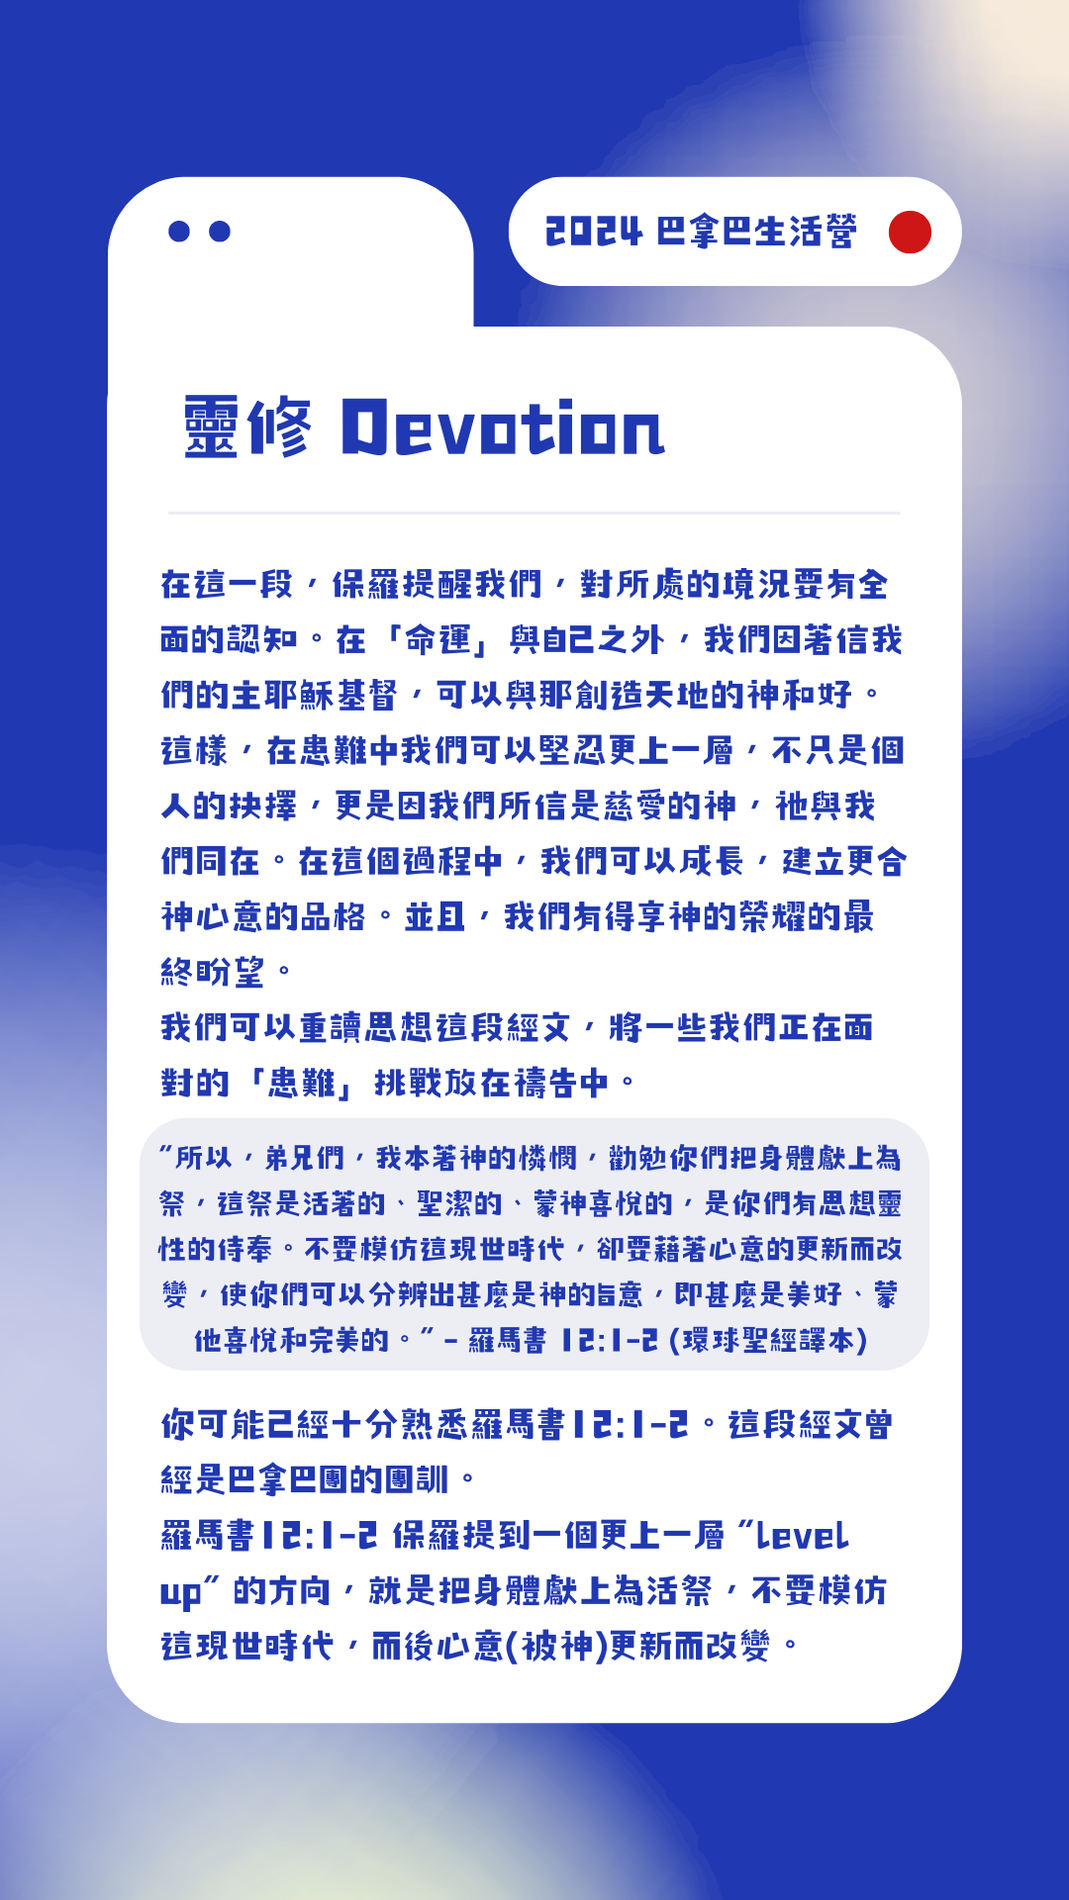
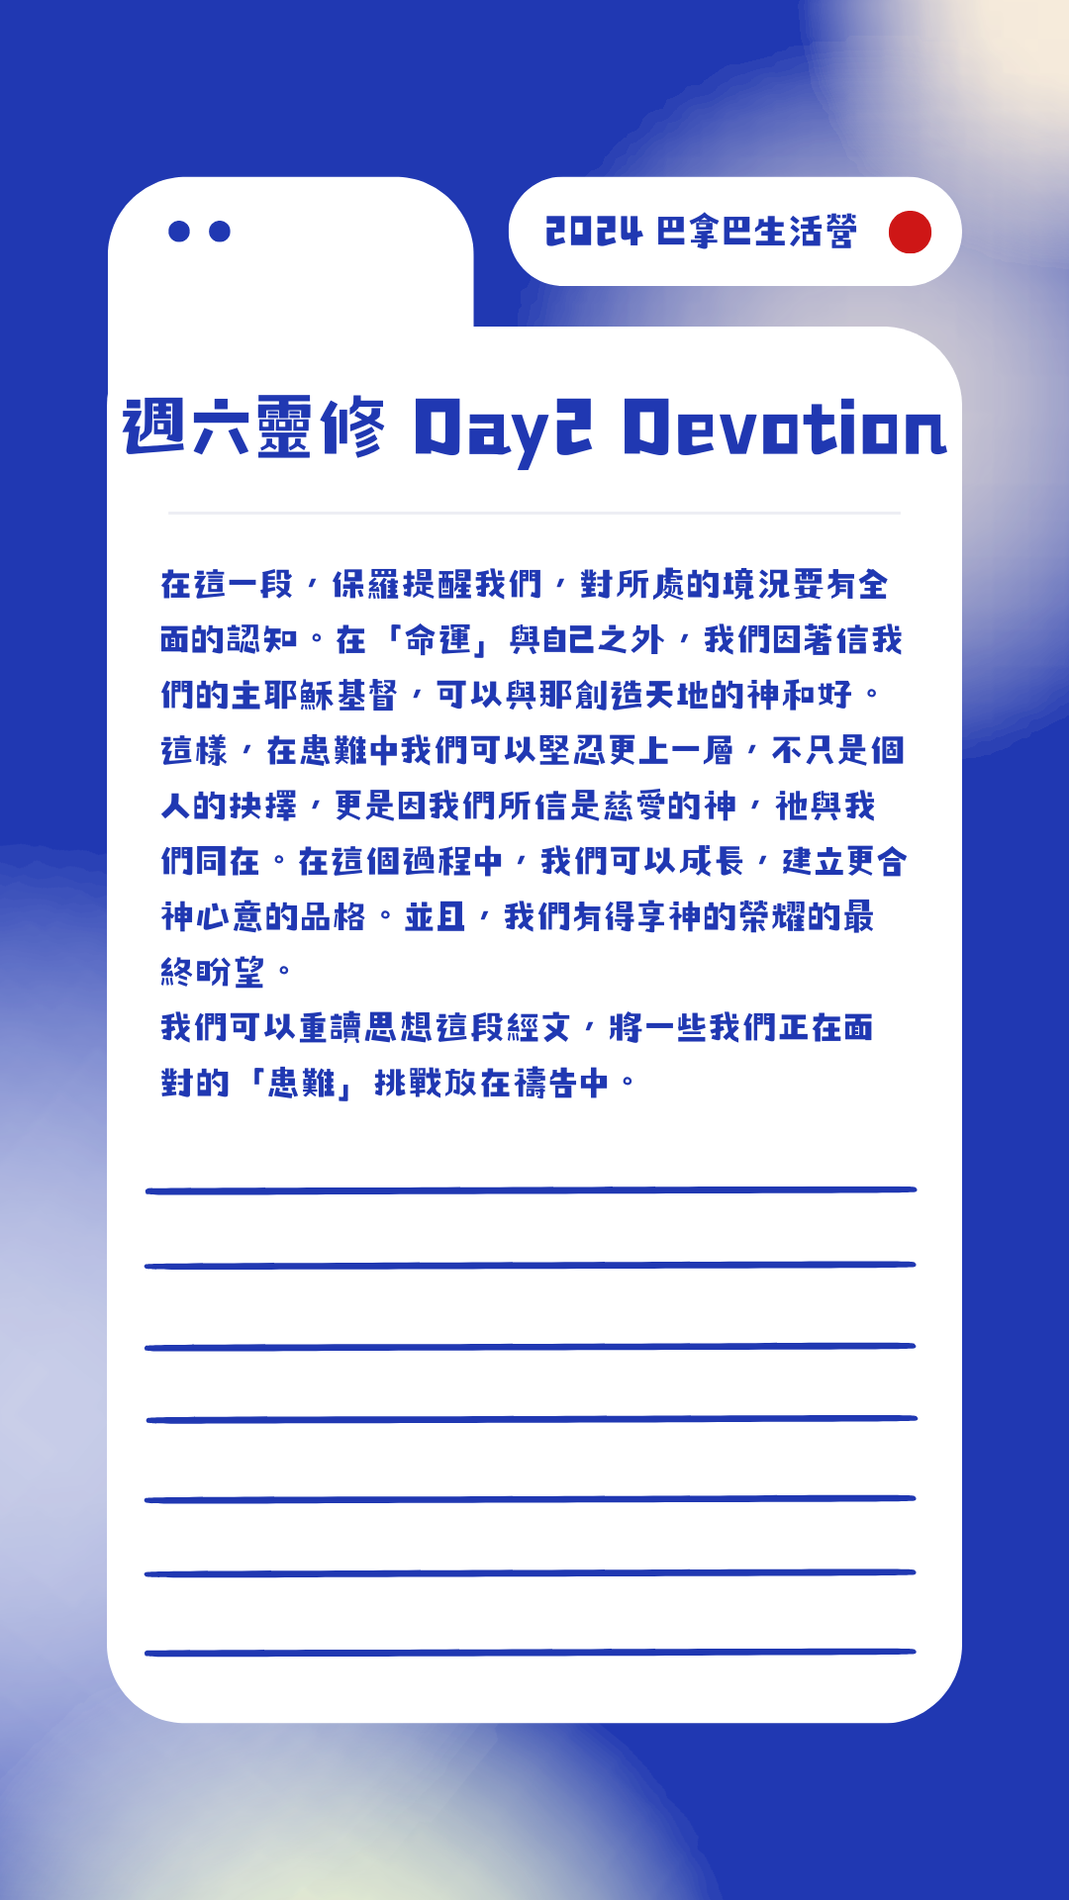
update

Changed region(s): [[0.1528, 0.5938, 0.8556, 0.875], [0.1222, 0.1875, 0.8861, 0.25]]

diff --git a/src/pages/Notes/index.tsx b/src/pages/Notes/index.tsx
@@ -19,19 +19,22 @@ import {
 } from "../../components/ui/tabs";
 
 export default function Notes() {
-  const [devotionNotes, setDevotionNotes] = useState("");
+  const [devotion1Notes, setDevotion1Notes] = useState("");
+  const [devotion2Notes, setDevotion2Notes] = useState("");
   const [day1Notes, setDay1Notes] = useState("");
   const [day2Notes, setDay2Notes] = useState("");
   const [day3Notes, setDay3Notes] = useState("");
 
   useEffect(() => {
     // load the notes from local storage
-    const savedDevotionNotes = localStorage.getItem("devotionNotes");
+    const savedDevotion1Notes = localStorage.getItem("devotion1Notes");
+    const savedDevotion2Notes = localStorage.getItem("devotion2Notes");
     const savedDay1Notes = localStorage.getItem("day1Notes");
     const savedDay2Notes = localStorage.getItem("day2Notes");
     const savedDay3Notes = localStorage.getItem("day3Notes");
 
-    if (savedDevotionNotes) setDevotionNotes(savedDevotionNotes);
+    if (savedDevotion1Notes) setDevotion1Notes(savedDevotion1Notes);
+    if (savedDevotion2Notes) setDevotion2Notes(savedDevotion2Notes);
     if (savedDay1Notes) setDay1Notes(savedDay1Notes);
     if (savedDay2Notes) setDay2Notes(savedDay2Notes);
     if (savedDay3Notes) setDay3Notes(savedDay3Notes);
@@ -55,75 +58,19 @@ export default function Notes() {
           You can start taking notes here! 📝 
         </AlertDescription>
       </Alert> */}
-      <Tabs defaultValue="devotion" className="w-full">
-        <TabsList className="grid w-full grid-cols-4">
-          <TabsTrigger value="devotion">Devotion</TabsTrigger>
+      <Tabs defaultValue="devotion1" className="w-full">
+        <TabsList className="grid w-full grid-cols-5">
+          <TabsTrigger value="devotion1">Devotion 1</TabsTrigger>
+          <TabsTrigger value="devotion2">Devotion 2</TabsTrigger>
           <TabsTrigger value="day1">Talk 1</TabsTrigger>
           <TabsTrigger value="day2">Talk 2</TabsTrigger>
           <TabsTrigger value="day3">Talk 3</TabsTrigger>
         </TabsList>
-        <TabsContent value="devotion">
+        <TabsContent value="devotion1">
           <Card className="h-[80vh]">
             <CardHeader>
-              <CardTitle>靈修 Devotion</CardTitle>
+              <CardTitle>週六靈修 Day2 Devotion 📚</CardTitle>
               <CardDescription className="max-h-48 overflow-scroll">
-                在 Adobe 網站的文章 “What is the perfect Instagram video
-                length?” 有這一段文字： “Instagram videos with the most comments
-                typically average around 26 seconds long. If you want to
-                maintain your viewers’ attention and engage with your audience,
-                it’s a good idea to keep your Instagram videos under 30
-                seconds.”
-                靈修讀經不應是要在三十秒內完成，反之，我們要學會慢下來，反覆閱讀、思想經文。將對你
-                有所感動或挑戰的字句、思想，轉化成為你自己的禱告。 羅馬書 5:1-5
-                (環球聖經譯本)
-                所以，我們既然因信稱義，就藉著我們的主耶穌基督，得以與神和睦相處；我們也藉著
-                他，因信得以進入我們現在享有的這恩典，並且因為盼望得享神的榮耀而歡呼自豪。不
-                但如此，我們也在患難中歡呼自豪，因為知道患難產生堅忍，堅忍產生經得起考驗的品
-                格，經得起考驗的品格產生盼望；這盼望不會令我們蒙羞，因為神的愛，藉著他賜給我
-                們的聖靈，已經傾注在我們心裡。 當我們細心閱讀羅馬書
-                5:1-5，我們會發覺到保羅說出了我們生活上的景況。 “盼望得享神的榮
-                耀而歡呼自豪” 的同時
-                “我們也在患難中歡呼自豪”。我們信主得著救恩，但我們也在患難中。
-                患難並沒有因為我們與神和好而離開我們。
-                我們的「患難」可能是家庭關係的磨擦、身體健康的困擾、工作要求的挑戰、經濟上的壓力、
-                尋找工作方向的迷惘、尋找另一半的希望、如何在墨爾本安頓下來、又或是否要離開
-                . . . 等。
-                不過，這些看似攔阻我們得享恩典的日常生活的難處，是操練我們成長的途徑，使我們有「經
-                得起考驗的品格」。 作家 Josh Shipp 這樣說 “You either get bitter
-                or you get better. It's that simple. You either take what has
-                been dealt to you and allow it to make you a better person, or
-                you allow it to tear you down. The choice does not belong to
-                fate, it belongs to you.”
-                作者强調的是個人的抉擇能勝過命運，但這是甚
-                樣的更好(better)？更懂得為自己謀取利益？更加自我為中心？
-                在這一段，保羅提醒我們，對所處的境況要有全面的認知。在「命運」與自己之外，我們因著
-                信我們的主耶穌基督，可以與那創造天地的神和好。這樣，在患難中我們可以堅忍更上一層，
-                不只是個人的抉擇，更是因我們所信是慈愛的神，祂與我們同在。在這個過程中，我們可以成
-                長，建立更合神心意的品格。並且，我們有得享神的榮耀的最終盼望。
-                我們可以重讀思想這段經文，將一些我們正在面對的「患難」挑戰放在禱告中。
-                Draft_10_c1 Page 2 羅馬書 12:1-2 (環球聖經譯本)
-                所以，弟兄們，我本著神的憐憫，勸勉你們把身體獻上為祭，這祭是活著的、聖潔的、
-                蒙神喜悅的，是你們有思想靈性的侍奉。不要模仿這現世時代，卻要藉著心意的更新而
-                改變，使你們可以分辨出甚麼是神的旨意，即甚麼是美好、蒙他喜悅和完美的。
-                你可能已經十分熟悉羅馬書12:1-2。這段經文曾經是巴拿巴團的團訓。
-                羅馬書12:1-2 保羅提到一個更上一層 “level up”
-                的方向，就是把身體獻上為活祭，不要模仿這
-                現世時代，而後心意(被神)更新而改變。 Eugene Peterson 在 The
-                Message 對這段有十分傳神的翻譯 “Take your everyday, ordinary
-                life— your sleeping, eating, going-to-work, and walking-around
-                life—and place it before God as an offering. . . . Don’t become
-                so well-adjusted to your culture that you fit into it without
-                even thinking. Instead, fix your attention on God. You’ll be
-                changed from the inside out. . . . ” (把你每天平凡的生活
-                ──你的睡覺、吃飯、上班、行走的生活──當作祭物放在神面前。 . . .
-                .不要太適應在你所處
-                的文化，以至於不假思索就融入其中。相反，將你的注意力在神身上。你將會有由內而外的蛻
-                變。) 讀完羅馬書
-                12:1-2，對你來說，你會拿什麼作為活祭？你的日常生活作息？你的生活中的難處
-                壓力？你的生活中的成功或者成敗？首先，神所喜悅的是你願意去思想什麼是神所喜悅的，願
-                意讓自己心意更新，願意去獻上。
-                保羅跟著說我們可以分辨出甚麼是神的旨意。在你的身上，在你所處的境況，你可以甚樣分辨
-                出神的旨意？你可以集中一個方面，放在你的禱告中，以這作為你的活祭。
                 In an article from Adobe’s tutorial webpage, the answer to the
                 question “What is the perfect Instagram video length?” is:
                 “Instagram videos with the most comments typically average
@@ -169,44 +116,122 @@ export default function Notes() {
                 person who will seek God’s heart. Furthermore, we have the hope
                 of enjoying God’s glory in the future. Re-read and reflect on
                 this passage. We can put our “sufferings” we are facing into our
-                prayers. Draft_10_e Page 2 Rom 12:1- (NIV) Therefore, I urge
-                you, brothers and sisters, in view of God’s mercy, to offer your
-                bodies as a living sacrifice, holy and pleasing to God—this is
-                your true and proper worship. Do not conform to the pattern of
-                this world, but be transformed by the renewing of your mind.
-                Then you will be able to test and approve what God’s will is—his
-                good, pleasing and perfect will. You may be very familiar with
-                Romans 12:1-2. This was once a Bible verse of Barnabas
-                Fellowship. In Romans 12:1-2, Paul pointed a way to “level up”,
-                which is to offer your body as a living sacrifice, not to
-                conform to the pattern of this age, be transformed (by God) by
-                the renewing of your mind. In The Message, Eugene Peterson has a
-                very insightful translation of this passage, “Take your
-                everyday, ordinary life—your sleeping, eating, going-to-work,
-                and walking-around life—and place it before God as an offering.
-                . . . Don’t become so well-adjusted to your culture that you fit
-                into it without even thinking. Instead, fix your attention on
-                God. You’ll be changed from the inside out. . . .” To you, after
-                reading Romans 12:1-2, what will you offer as a living
-                sacrifice? Your daily routine? Difficulties and stress in your
-                life? Success or failure in your life? First of all, what
-                pleases God is your willingness to think about what pleases God,
-                your willingness to renew your mind, and your willingness to
-                offer. Paul goes on to say that we can discern what God’s will
-                is. How can you discern God's will in your life situation? You
-                may focus on one aspect, put it in your prayers, and make it
-                your living sacrifice.
+                prayers.在 Adobe 網站的文章 “What is the perfect Instagram video
+                length?” 有這一段文字： “Instagram videos with the most comments
+                typically average around 26 seconds long. If you want to
+                maintain your viewers’ attention and engage with your audience,
+                it’s a good idea to keep your Instagram videos under 30
+                seconds.”
+                靈修讀經不應是要在三十秒內完成，反之，我們要學會慢下來，反覆閱讀、思想經文。將對你
+                有所感動或挑戰的字句、思想，轉化成為你自己的禱告。 羅馬書 5:1-5
+                (環球聖經譯本)
+                所以，我們既然因信稱義，就藉著我們的主耶穌基督，得以與神和睦相處；我們也藉著
+                他，因信得以進入我們現在享有的這恩典，並且因為盼望得享神的榮耀而歡呼自豪。不
+                但如此，我們也在患難中歡呼自豪，因為知道患難產生堅忍，堅忍產生經得起考驗的品
+                格，經得起考驗的品格產生盼望；這盼望不會令我們蒙羞，因為神的愛，藉著他賜給我
+                們的聖靈，已經傾注在我們心裡。 當我們細心閱讀羅馬書
+                5:1-5，我們會發覺到保羅說出了我們生活上的景況。 “盼望得享神的榮
+                耀而歡呼自豪” 的同時
+                “我們也在患難中歡呼自豪”。我們信主得著救恩，但我們也在患難中。
+                患難並沒有因為我們與神和好而離開我們。
+                我們的「患難」可能是家庭關係的磨擦、身體健康的困擾、工作要求的挑戰、經濟上的壓力、
+                尋找工作方向的迷惘、尋找另一半的希望、如何在墨爾本安頓下來、又或是否要離開
+                . . . 等。
+                不過，這些看似攔阻我們得享恩典的日常生活的難處，是操練我們成長的途徑，使我們有「經
+                得起考驗的品格」。 作家 Josh Shipp 這樣說 “You either get bitter
+                or you get better. It's that simple. You either take what has
+                been dealt to you and allow it to make you a better person, or
+                you allow it to tear you down. The choice does not belong to
+                fate, it belongs to you.”
+                作者强調的是個人的抉擇能勝過命運，但這是甚
+                樣的更好(better)？更懂得為自己謀取利益？更加自我為中心？
+                在這一段，保羅提醒我們，對所處的境況要有全面的認知。在「命運」與自己之外，我們因著
+                信我們的主耶穌基督，可以與那創造天地的神和好。這樣，在患難中我們可以堅忍更上一層，
+                不只是個人的抉擇，更是因我們所信是慈愛的神，祂與我們同在。在這個過程中，我們可以成
+                長，建立更合神心意的品格。並且，我們有得享神的榮耀的最終盼望。
+                我們可以重讀思想這段經文，將一些我們正在面對的「患難」挑戰放在禱告中。
               </CardDescription>
             </CardHeader>
             <CardContent className="space-y-2">
               <Textarea
                 placeholder="Type your notes here..."
                 className="w-full h-[28vh]"
-                value={devotionNotes}
-                onChange={(e) => setDevotionNotes(e.target.value)}
+                value={devotion1Notes}
+                onChange={(e) => setDevotion1Notes(e.target.value)}
               />
               <Button
-                onClick={() => handleSave("devotionNotes", devotionNotes)}
+                onClick={() => handleSave("devotion1Notes", devotion1Notes)}
+              >
+                Save
+              </Button>
+            </CardContent>
+          </Card>
+        </TabsContent>
+        <TabsContent value="devotion2">
+          <Card className="h-[80vh]">
+            <CardHeader>
+              <CardTitle>週日靈修 Day3 Devotion 📚</CardTitle>
+              <CardDescription className="max-h-48 overflow-scroll">
+                Rom 12:1- (NIV) Therefore, I urge you, brothers and sisters, in
+                view of God’s mercy, to offer your bodies as a living sacrifice,
+                holy and pleasing to God—this is your true and proper worship.
+                Do not conform to the pattern of this world, but be transformed
+                by the renewing of your mind. Then you will be able to test and
+                approve what God’s will is—his good, pleasing and perfect will.
+                You may be very familiar with Romans 12:1-2. This was once a
+                Bible verse of Barnabas Fellowship. In Romans 12:1-2, Paul
+                pointed a way to “level up”, which is to offer your body as a
+                living sacrifice, not to conform to the pattern of this age, be
+                transformed (by God) by the renewing of your mind. In The
+                Message, Eugene Peterson has a very insightful translation of
+                this passage, “Take your everyday, ordinary life—your sleeping,
+                eating, going-to-work, and walking-around life—and place it
+                before God as an offering. . . . Don’t become so well-adjusted
+                to your culture that you fit into it without even thinking.
+                Instead, fix your attention on God. You’ll be changed from the
+                inside out. . . .” To you, after reading Romans 12:1-2, what
+                will you offer as a living sacrifice? Your daily routine?
+                Difficulties and stress in your life? Success or failure in your
+                life? First of all, what pleases God is your willingness to
+                think about what pleases God, your willingness to renew your
+                mind, and your willingness to offer. Paul goes on to say that we
+                can discern what God’s will is. How can you discern God's will
+                in your life situation? You may focus on one aspect, put it in
+                your prayers, and make it your living sacrifice.羅馬書 12:1-2
+                (環球聖經譯本)
+                所以，弟兄們，我本著神的憐憫，勸勉你們把身體獻上為祭，這祭是活著的、聖潔的、
+                蒙神喜悅的，是你們有思想靈性的侍奉。不要模仿這現世時代，卻要藉著心意的更新而
+                改變，使你們可以分辨出甚麼是神的旨意，即甚麼是美好、蒙他喜悅和完美的。
+                你可能已經十分熟悉羅馬書12:1-2。這段經文曾經是巴拿巴團的團訓。
+                羅馬書12:1-2 保羅提到一個更上一層 “level up”
+                的方向，就是把身體獻上為活祭，不要模仿這
+                現世時代，而後心意(被神)更新而改變。 Eugene Peterson 在 The
+                Message 對這段有十分傳神的翻譯 “Take your everyday, ordinary
+                life— your sleeping, eating, going-to-work, and walking-around
+                life—and place it before God as an offering. . . . Don’t become
+                so well-adjusted to your culture that you fit into it without
+                even thinking. Instead, fix your attention on God. You’ll be
+                changed from the inside out. . . . ” (把你每天平凡的生活
+                ──你的睡覺、吃飯、上班、行走的生活──當作祭物放在神面前。 . . .
+                .不要太適應在你所處
+                的文化，以至於不假思索就融入其中。相反，將你的注意力在神身上。你將會有由內而外的蛻
+                變。) 讀完羅馬書
+                12:1-2，對你來說，你會拿什麼作為活祭？你的日常生活作息？你的生活中的難處
+                壓力？你的生活中的成功或者成敗？首先，神所喜悅的是你願意去思想什麼是神所喜悅的，願
+                意讓自己心意更新，願意去獻上。
+                保羅跟著說我們可以分辨出甚麼是神的旨意。在你的身上，在你所處的境況，你可以甚樣分辨
+                出神的旨意？你可以集中一個方面，放在你的禱告中，以這作為你的活祭。
+              </CardDescription>
+            </CardHeader>
+            <CardContent className="space-y-2">
+              <Textarea
+                placeholder="Type your notes here..."
+                className="w-full h-[28vh]"
+                value={devotion2Notes}
+                onChange={(e) => setDevotion2Notes(e.target.value)}
+              />
+              <Button
+                onClick={() => handleSave("devotion2Notes", devotion2Notes)}
               >
                 Save
               </Button>
@@ -237,7 +262,9 @@ export default function Notes() {
         <TabsContent value="day2">
           <Card className="h-[80vh]">
             <CardHeader>
-              <CardTitle>Theme Talk: 信仰與恩賜 🎁</CardTitle>
+              <CardTitle>
+                Theme Talk: 信仰與恩賜 🎁 & Theme Movie Reflection 🍿
+              </CardTitle>
               <CardDescription className="max-h-48 overflow-scroll">
                 Feel free to take notes here!
               </CardDescription>

diff --git a/src/pages/Brochures/index.tsx b/src/pages/Brochures/index.tsx
@@ -26,7 +26,7 @@ export default function Brochures() {
           You can download the brochures by clicking HERE
         </AlertDescription>
       </Alert>
-      {/* image 1-27 */}
+
       <img src="/1.png" />
       <img src="/2.png" />
       <img src="/3.png" />
@@ -51,9 +51,11 @@ export default function Brochures() {
       <img src="/22.png" />
       <img src="/23.png" />
       <img src="/24.png" />
-      {/* <img src="/25.png" />
+      <img src="/25.png" />
       <img src="/26.png" />
-      <img src="/27.png" /> */}
+      <img src="/27.png" />
+      <img src="/28.png" />
+      <img src="/29.png" />
     </main>
   );
 }
